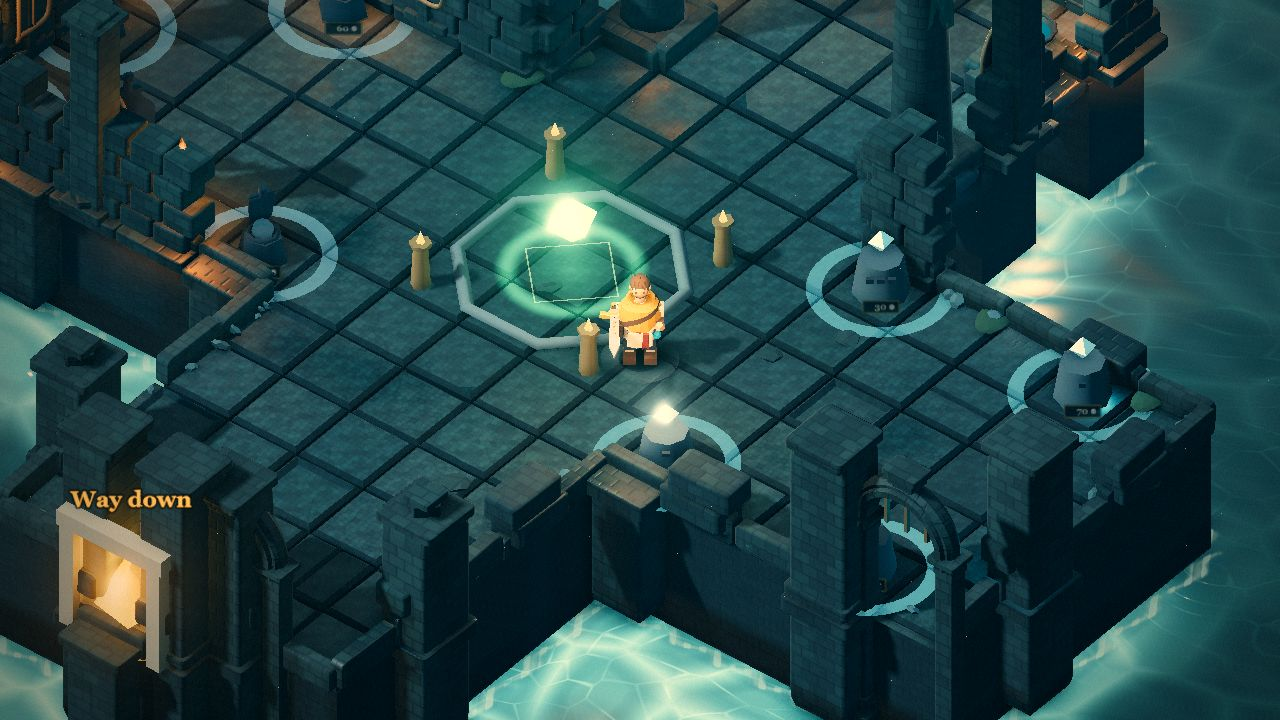
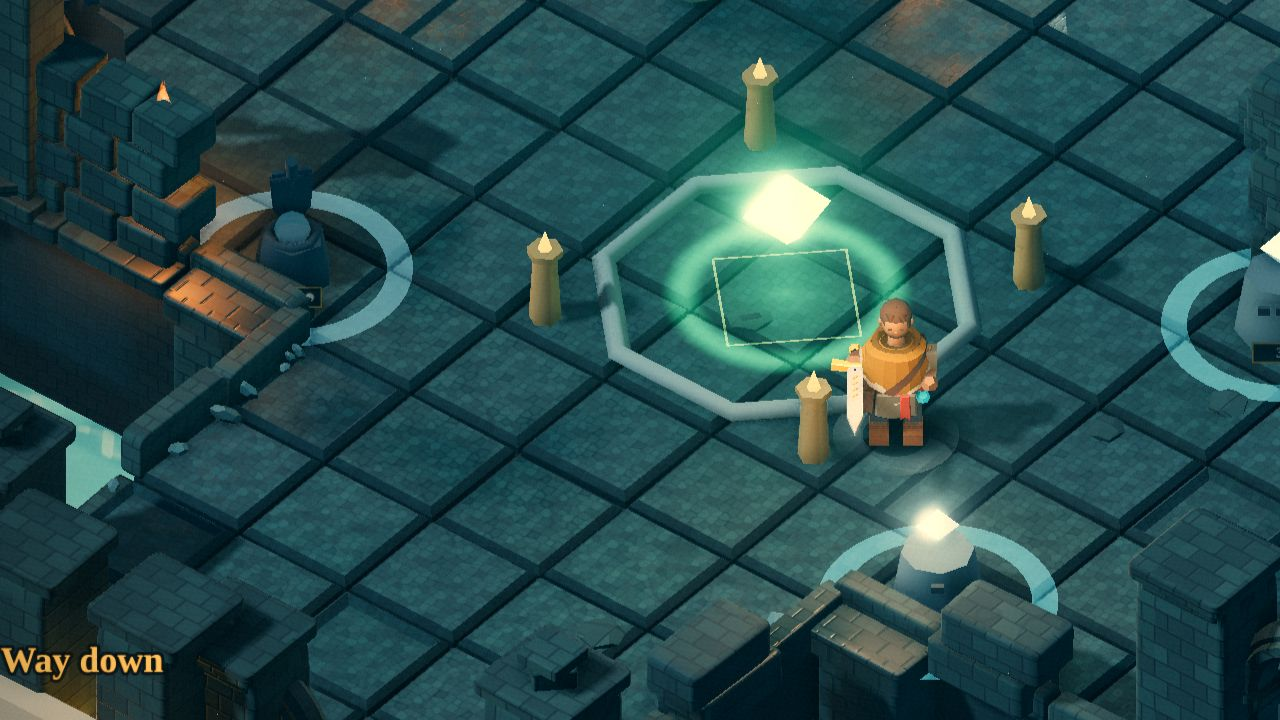
Frame the Relic Seeker larger and right of the menu in the keep backdrop (plan 028 Stage D)
scripts/backdrop.ts draws the frame at 1.6x and crops it back to 1280x720 so the
figure stands at 70% of the width, clear of the menu's left half, at full
resolution rather than upscaled. Redrawn on SwiftShader (no GPU on this
machine; plan 027's was d3d11), 133 KB.

Claude-Session: https://claude.ai/code/session_018CkUKEMRubWnjGHKYFNv6w

diff --git a/game/scripts/backdrop.ts b/game/scripts/backdrop.ts
@@ -23,6 +23,9 @@ const OUT = join(GAME, 'public', 'keep-backdrop.jpg');
 // floor 1 the rest of the suite already treats as "the" reference seed.
 const SEED = 0x1;
 const QUALITY = 0.8;
+// Plan 028: the figure was small and at the frame's centre, half under the menu (`.keep-backdrop` covers the left
+// half). The frame is drawn ZOOM times larger and cropped so he stands at AT of the width and height of the result.
+const ZOOM = 1.6, AT = { x: .7, y: .56 }, OUT_SIZE = { width: 1280, height: 720 };
 
 const portBusy = (port: number) =>
   new Promise<boolean>((done) => {
@@ -69,7 +72,9 @@ async function main() {
   const args = process.env.GAME_TEST_GL === 'd3d11' ? ['--use-gl=angle', '--use-angle=d3d11', '--enable-gpu'] : ['--use-gl=angle', '--use-angle=swiftshader'];
   const browser = await chromium.launch({ args });
   try {
-    const page = await browser.newPage({ viewport: { width: 1280, height: 720 }, deviceScaleFactor: 1 });
+    // Plan 028: drawn at 1.6x and cropped back to 1280x720 round the figure (see the read below), so he stands larger and
+    // in the right half the menu leaves clear, at full sharpness rather than upscaled.
+    const page = await browser.newPage({ viewport: { width: 1280, height: 720 }, deviceScaleFactor: ZOOM });
     // The single word buildFloor draws, pinned so the backdrop always shows the same floor 1.
     await page.addInitScript((seed: number) => {
       const original = crypto.getRandomValues.bind(crypto);
@@ -117,7 +122,7 @@ async function main() {
     await page.keyboard.up('ArrowDown');
     await page.evaluate(() => (window as unknown as { advanceTime: (ms: number) => void }).advanceTime(1200));
 
-    const dataUrl = await page.evaluate((quality: number) => {
+    const dataUrl = await page.evaluate(({ quality, zoom, at, size }: { quality: number; zoom: number; at: { x: number; y: number }; size: { width: number; height: number } }) => {
       const w = window as unknown as { advanceTime?: (ms: number, draw?: boolean) => void };
       if (!w.advanceTime) throw new Error('advanceTime is gone');
       // One deterministic draw, and the canvas is read back in the same task: the renderer has no
@@ -126,8 +131,14 @@ async function main() {
       // of the picture - they are DOM/CSS, not pixels three.js put in this element.
       w.advanceTime(0, true);
       const canvas = document.querySelector('.game-canvas canvas') as HTMLCanvasElement;
-      return canvas.toDataURL('image/jpeg', quality);
-    }, QUALITY);
+      // The camera keeps him at the canvas's centre, his middle a little above it; crop a window ZOOM times smaller
+      // than the canvas that puts that point at AT, and draw it at the menu's 1280x720.
+      const sw = canvas.width / zoom, sh = canvas.height / zoom, px = canvas.width / 2, py = canvas.height * .47;
+      const sx = Math.min(Math.max(0, px - at.x * sw), canvas.width - sw), sy = Math.min(Math.max(0, py - at.y * sh), canvas.height - sh);
+      const out = document.createElement('canvas'); out.width = size.width; out.height = size.height;
+      const ctx = out.getContext('2d')!; ctx.imageSmoothingQuality = 'high'; ctx.drawImage(canvas, sx, sy, sw, sh, 0, 0, size.width, size.height);
+      return out.toDataURL('image/jpeg', quality);
+    }, { quality: QUALITY, zoom: ZOOM, at: AT, size: OUT_SIZE });
 
     const bytes = Buffer.from(dataUrl.split(',')[1]!, 'base64');
     mkdirSync(join(GAME, 'public'), { recursive: true });
